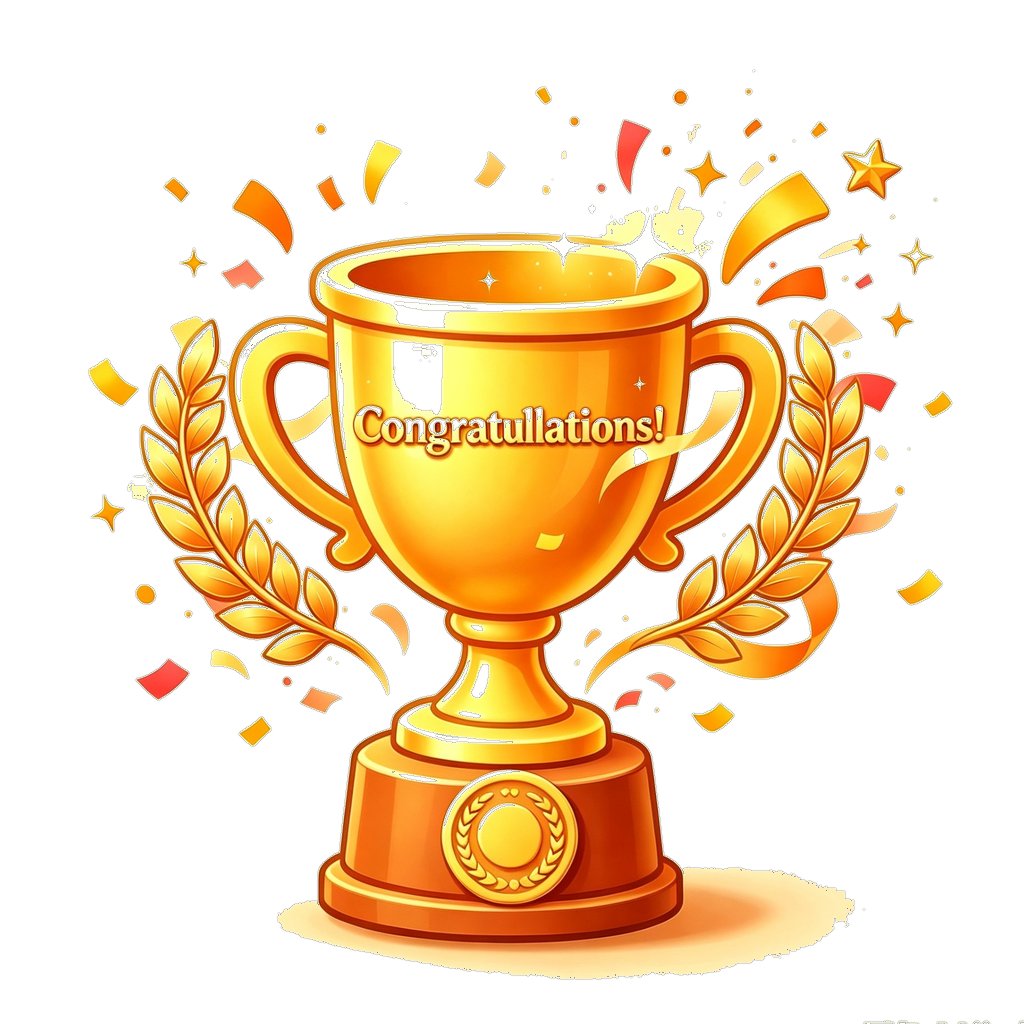
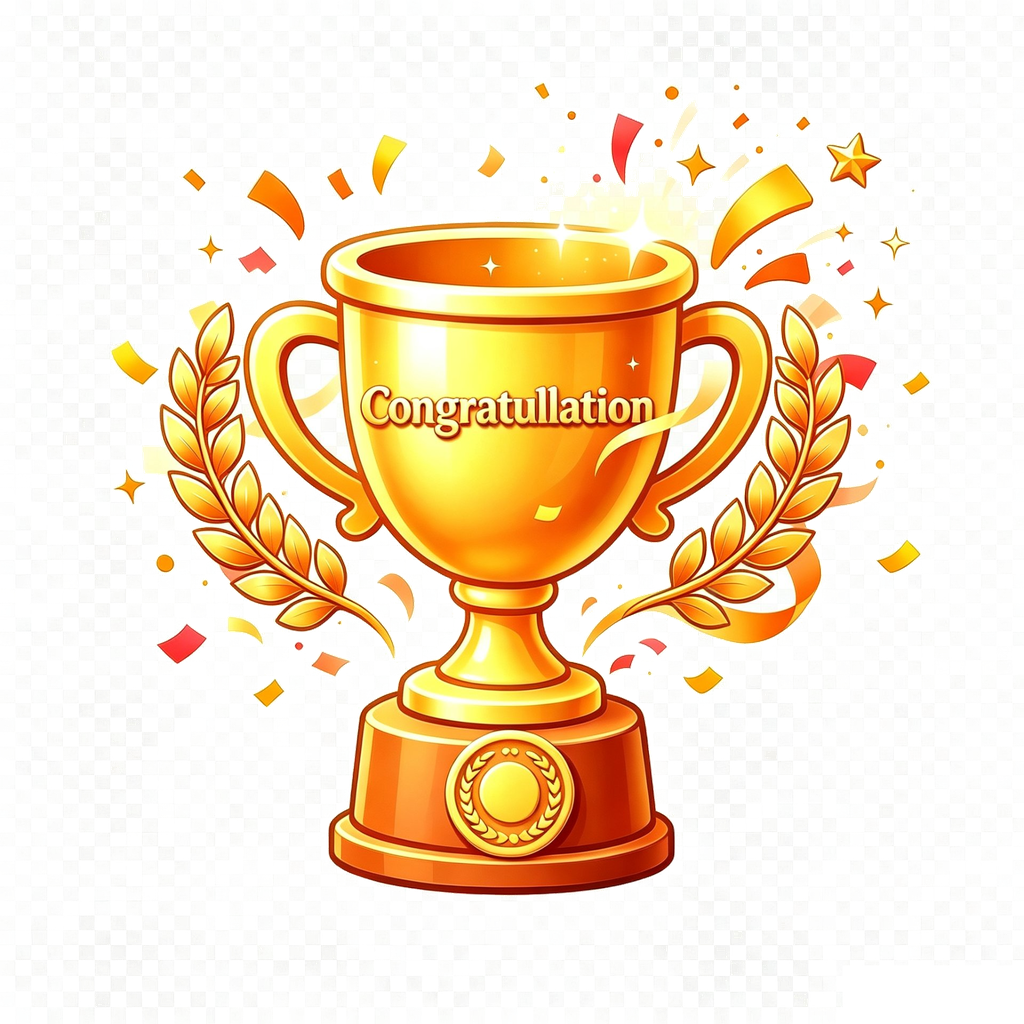
feat: 替换祝贺页奖杯图为新卡通金色奖杯
- 用用户提供的豆包 AI 奖杯图替换 src/assets/trophy-celebration-transparent.png
- 去除右下角「豆包AI生成」水印
- 白底通过边缘 flood-fill 转为透明，保留奖杯主体与高光
- 缩放至 1024×1024 以控制包体积（由 1920×1920 的 2.86MB 降至 1.75MB）
- LearnPage 奖杯外层由暖金色不透明底盘改回紫色呼吸柔光底盘
- TrophyIcon.tsx 注释更新为新图源与处理方式
- APP_BUILD 72 → 73

diff --git a/src/pages/LearnPage.tsx b/src/pages/LearnPage.tsx
@@ -1001,18 +1001,15 @@ export default function LearnPage({
           }}
         >
           <div className="mx-auto flex min-h-full max-w-sm flex-col items-center pb-[calc(1.5rem+env(safe-area-inset-bottom))] pt-12 text-center">
-            {/* 奖杯：保留正式版 TrophyIcon，外加暖金色圆形底盘掩盖 PNG 透明瑕疵 */}
+            {/* 奖杯：保留正式版 TrophyIcon，紫色呼吸柔光底盘 */}
             <div
               className="relative flex h-[132px] w-[132px] shrink-0 animate-[breathe_3.4s_ease-in-out_infinite] items-center justify-center rounded-full"
               style={{
                 background:
-                  "radial-gradient(circle at 50% 55%, #FFD54F 0%, #F5B800 42%, #E89A0B 72%, #C67A20 100%)",
+                  "radial-gradient(circle at 50% 50%, rgba(124,107,245,.18), rgba(124,107,245,.04) 56%, rgba(255,255,255,0) 74%)",
               }}
             >
-              <div
-                className="animate-[badgePop_.5s_cubic-bezier(.34,1.56,.64,1)_both]"
-                style={{ filter: "drop-shadow(0 2px 6px rgba(198,122,32,.35))" }}
-              >
+              <div className="animate-[badgePop_.5s_cubic-bezier(.34,1.56,.64,1)_both]">
                 <TrophyIcon size={120} />
               </div>
             </div>

diff --git a/src/components/TrophyIcon.tsx b/src/components/TrophyIcon.tsx
@@ -9,9 +9,10 @@ import trophyImg from "../assets/trophy-celebration-transparent.png";
  * ⚠ 注意：祝贺页奖杯**正下方**就是 `SunIcon/StarIcon size={56}`，
  * 两者风格差异会在同屏显现——如需协调后续单独处理。
  *
- * 2026-09-06 米黄方形背景 → 透明：
- *   资源 `src/assets/trophy-celebration-transparent.png`（1024×1024 RGBA，
- *   67.4% 像素 alpha=0，原图来源豆包 AI，已抠图 + alpha Blur 0.6 抗锯齿）。
+ * 2026-09-09 替换为卡通金色奖杯（带麦穗/彩带/高光）：
+ *   资源 `src/assets/trophy-celebration-transparent.png`（1024×1024 RGBA）。
+ *   原图为豆包 AI 生成 JPG，已做：① 边缘 flood-fill 去白底；② 右下角水印区域
+ *   裁透明；③ 缩放至 1024×1024；④ 保存为 PNG。
  *   文件名加 `-transparent` 后缀是为了让 iPad Safari 等强缓存场景下，
  *   旧 URL `trophy-celebration.png` 完全失效，强制重下载。
  *
